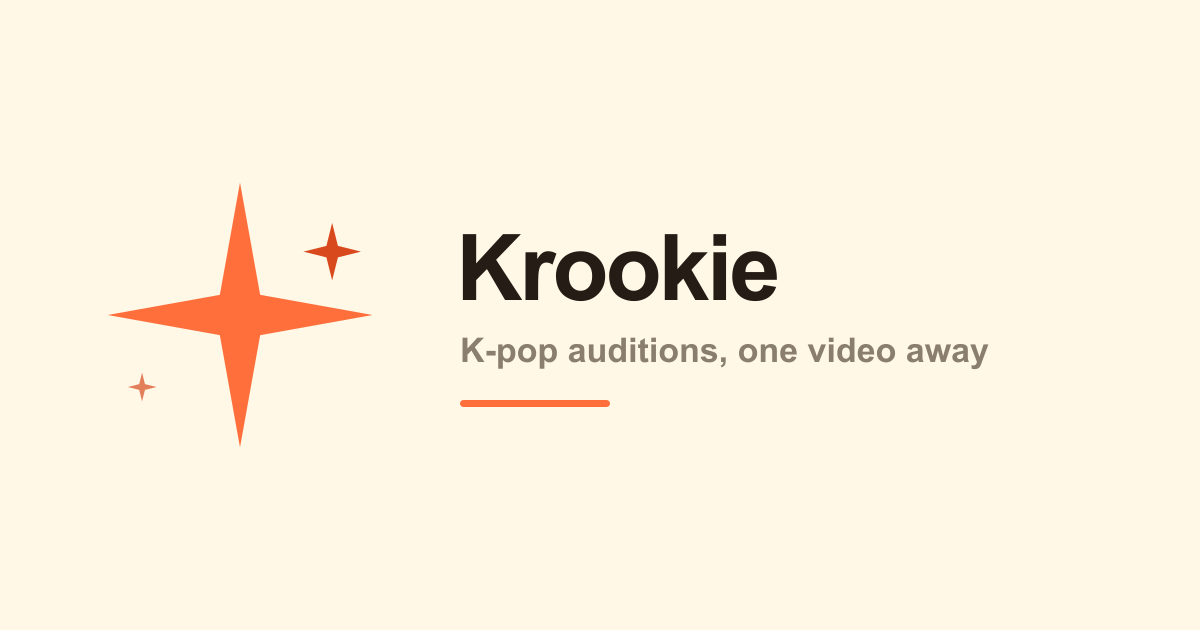
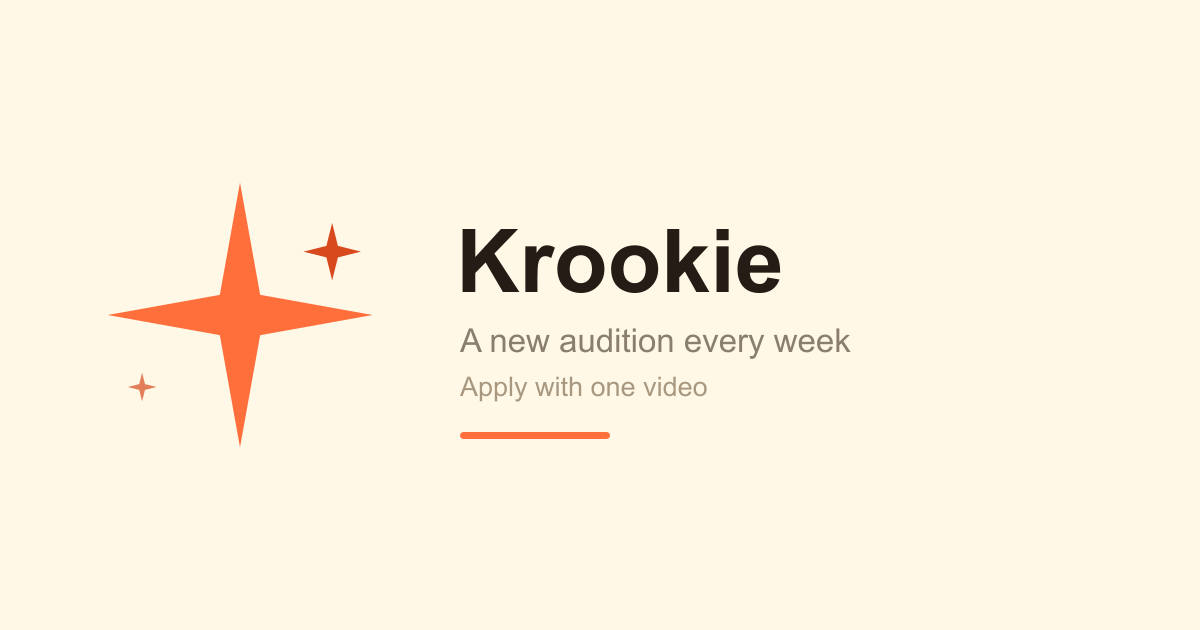
feat: 메인 슬로건을 '매주 새로운 오디션에 지원하세요'로 전환
온라인 오디션 중심으로 방향을 잡았는데 문구는 아직 커버 커뮤니티 시절 그대로였다.
공고 링크를 받아 처음 들어온 사람이 "영상을 올리면 기획사가 찾아온다"를 먼저 읽으면
지금 하려는 일과 어긋난다.

- 랜딩 문구 전면 교체 (10개 언어). 히어로·소개·지원 절차·CTA를 오디션 지원 흐름으로.
- 루트/랜딩 메타데이터, 공용 tagline, 온보딩 첫 화면 교체.
- og-image 문구를 'A new audition every week / Apply with one video'로 재생성.

SNS(커버 업로드·탐색·채팅)는 그대로 둔다. 기능을 지우면 심사 중인 앱과 스토어
설명이 어긋나므로, 이번에는 문구만 바꾸고 커버는 부가 경로로 남겨 서술했다.

Changed region(s): [[0.37, 0.5127, 0.8325, 0.7238], [0.37, 0.3619, 0.6475, 0.4825]]

diff --git a/app/LandingClient.tsx b/app/LandingClient.tsx
@@ -18,154 +18,154 @@ type TxShape = {
 
 const t: Record<Lang, TxShape> = {
   ko: {
-    tagline: '기획사가 직접 발굴하는 오디션 플랫폼',
-    hero: '당신의 재능\n기획사에게 직접',
-    heroSub: '영상 하나로 전세계 기획사 담당자에게 노출됩니다.\nKrookie는 오디션의 새로운 방식입니다.',
+    tagline: '매주 새로운 오디션에 지원하세요',
+    hero: '매주 새로운 오디션\n영상 하나로 지원',
+    heroSub: '기획사가 직접 여는 온라인 오디션.\n갖고 있는 영상으로 지원하고 결과는 앱에서 받아보세요.',
     ctaTalent: '지망생으로 시작하기', ctaAgency: '기획사 문의', login: '로그인',
     forTalent: '지망생', forAgency: '기획사',
-    talentTitle: '재능을 보여줄 무대가 생겼어요',
-    talentPoints: ['영상 업로드 한 번으로 전세계 기획사에 노출', '기획사가 먼저 연락해요', '오디션 공고를 한 곳에서 확인', '관심 표시와 채팅으로 바로 소통'],
+    talentTitle: '오디션을 찾아다니지 않아도 돼요',
+    talentPoints: ['매주 새로운 기획사 오디션이 열려요', '갖고 있는 영상으로 바로 지원 — 새로 찍지 않아도 돼요', '결과는 앱으로 알려드려요', '평소엔 커버 영상을 올려두면 기획사가 먼저 찾아와요'],
     agencyTitle: '검증된 인재를 더 빠르게',
-    agencyPoints: ['전세계 지망생 영상을 한 곳에서 탐색', '원하는 조건으로 필터링', '관심 표시로 풀 구성', '채팅으로 바로 연락'],
-    howTitle: '이렇게 작동해요',
-    steps: [{ title: '영상 업로드', desc: '보컬, 댄스, 연기 등 나의 재능을 담은 영상을 올리세요' }, { title: '기획사 탐색', desc: '전국 기획사 담당자들이 영상을 보고 관심 표시를 합니다' }, { title: '직접 연결', desc: '채팅으로 바로 소통하고 오디션 기회를 잡으세요' }],
-    ctaTitle: '지금 바로 시작해보세요', ctaSub: '가입은 무료입니다', ctaStart: '무료로 시작하기',
-    footerDesc: '기획사가 직접 발굴하는 오디션 플랫폼',
+    agencyPoints: ['온라인 오디션을 열고 지원 영상을 한 곳에서', '전세계 지망생 커버 영상 탐색', '원하는 조건으로 필터링', '채팅으로 바로 연락'],
+    howTitle: '이렇게 지원해요',
+    steps: [{ title: '이번 주 오디션 확인', desc: '매주 새로운 기획사 오디션이 올라와요' }, { title: '영상으로 지원', desc: '갖고 있는 영상을 고르거나 새로 찍어서 바로 지원하세요' }, { title: '결과 확인', desc: '기획사가 확인하면 앱으로 알려드려요' }],
+    ctaTitle: '이번 주 오디션에 지원하세요', ctaSub: '가입은 무료입니다', ctaStart: '무료로 시작하기',
+    footerDesc: '매주 새로운 오디션에 지원하세요',
   },
   en: {
-    tagline: 'The audition platform where agencies find you',
-    hero: 'Your talent,\ndirectly to agencies',
-    heroSub: 'Upload one video and get discovered by agencies across Korea.\nKrookie is a new way to audition.',
+    tagline: 'Apply to a new audition every week',
+    hero: 'A new audition\nevery week',
+    heroSub: 'Online auditions held by real agencies.\nApply with a video you already have — results come to the app.',
     ctaTalent: 'Start as a talent', ctaAgency: 'For agencies', login: 'Log in',
     forTalent: 'Talents', forAgency: 'Agencies',
-    talentTitle: 'A stage to show your talent',
-    talentPoints: ['One upload, exposed to agencies nationwide', 'Agencies reach out to you first', 'All audition listings in one place', 'Communicate directly via chat'],
-    agencyTitle: 'Discover talent faster',
-    agencyPoints: ['Browse talent videos from across Korea', 'Filter by category and criteria', 'Build your shortlist with bookmarks', 'Reach out directly via chat'],
-    howTitle: 'How it works',
-    steps: [{ title: 'Upload a video', desc: 'Show your vocal, dance, acting or other talents in a short video' }, { title: 'Get discovered', desc: 'Agency scouts browse videos and bookmark the ones they like' }, { title: 'Connect directly', desc: 'Chat directly with agencies and land your audition opportunity' }],
-    ctaTitle: 'Start today', ctaSub: 'Free to join', ctaStart: 'Get started free',
-    footerDesc: 'The audition platform where agencies find you',
+    talentTitle: 'No more hunting for auditions',
+    talentPoints: ['A new agency audition opens every week', 'Apply with a video you already have — no new filming', 'Results come straight to the app', 'Post covers anytime and let agencies find you'],
+    agencyTitle: 'Find talent faster',
+    agencyPoints: ['Open an online audition and collect every entry in one place', 'Browse cover videos from around the world', 'Filter by what you are looking for', 'Reach out directly via chat'],
+    howTitle: 'How to apply',
+    steps: [{ title: 'Check this week’s audition', desc: 'A new agency audition opens every week' }, { title: 'Apply with a video', desc: 'Pick a video you already have, or film a new one' }, { title: 'Hear back', desc: 'You will be notified in the app once the agency reviews it' }],
+    ctaTitle: 'Apply to this week’s audition', ctaSub: 'Free to join', ctaStart: 'Get started free',
+    footerDesc: 'Apply to a new audition every week',
   },
   ja: {
-    tagline: '芸能事務所が直接スカウトするオーディションプラットフォーム',
-    hero: 'あなたの才能を\n事務所へ直接届ける',
-    heroSub: '動画1本で全国の芸能事務所にアピール。\nKrookieは新しいオーディションのかたちです。',
+    tagline: '毎週新しいオーディションに応募しよう',
+    hero: '毎週新しいオーディション\n動画1本で応募',
+    heroSub: '芸能事務所が直接開催するオンラインオーディション。\n手持ちの動画で応募して、結果はアプリで受け取れます。',
     ctaTalent: 'タレントとして始める', ctaAgency: '事務所の方はこちら', login: 'ログイン',
     forTalent: 'タレント', forAgency: '事務所',
-    talentTitle: '才能を見せる舞台が生まれた',
-    talentPoints: ['動画1本で全国の事務所に露出', '事務所から直接連絡が来る', 'オーディション情報を一括確認', 'チャットで直接コミュニケーション'],
+    talentTitle: 'オーディションを探し回らなくていい',
+    talentPoints: ['毎週新しい事務所オーディションが開催', '手持ちの動画でそのまま応募 — 撮り直し不要', '結果はアプリでお知らせ', '普段はカバー動画を上げておけば事務所から声がかかります'],
     agencyTitle: '優秀な人材をより早く発掘',
-    agencyPoints: ['全国のタレント動画を一覧で閲覧', '条件でフィルタリング', 'お気に入り登録でリスト管理', 'チャットで直接連絡'],
-    howTitle: '使い方',
-    steps: [{ title: '動画をアップロード', desc: 'ボーカル、ダンス、演技など自分の才能を動画で投稿' }, { title: '事務所に発見される', desc: '全国の芸能事務所のスカウトが動画を閲覧し、お気に入り登録' }, { title: '直接つながる', desc: 'チャットで事務所と直接やり取りし、チャンスをつかもう' }],
-    ctaTitle: '今すぐ始めよう', ctaSub: '登録無料', ctaStart: '無料で始める',
-    footerDesc: '芸能事務所が直接スカウトするオーディションプラットフォーム',
+    agencyPoints: ['オンラインオーディションを開催し応募動画を一括管理', '世界中のカバー動画を閲覧', '条件でフィルタリング', 'チャットで直接連絡'],
+    howTitle: '応募の流れ',
+    steps: [{ title: '今週のオーディションを確認', desc: '毎週新しい事務所オーディションが公開されます' }, { title: '動画で応募', desc: '手持ちの動画を選ぶか、新しく撮って応募' }, { title: '結果を確認', desc: '事務所が確認するとアプリでお知らせします' }],
+    ctaTitle: '今週のオーディションに応募', ctaSub: '登録無料', ctaStart: '無料で始める',
+    footerDesc: '毎週新しいオーディションに応募しよう',
   },
   zh: {
-    tagline: '经纪公司直接发掘人才的试镜平台',
-    hero: '你的才华\n直达经纪公司',
-    heroSub: '上传一个视频，让全国经纪公司发现你。\nKrookie是全新的试镜方式。',
+    tagline: '每周都有新试镜等你报名',
+    hero: '每周都有新试镜\n一个视频即可报名',
+    heroSub: '经纪公司亲自举办的线上试镜。\n用你现有的视频报名，结果直接在应用内查收。',
     ctaTalent: '以艺人身份开始', ctaAgency: '经纪公司咨询', login: '登录',
     forTalent: '艺人', forAgency: '经纪公司',
-    talentTitle: '展示才华的舞台',
-    talentPoints: ['上传一次视频，曝光给全国经纪公司', '经纪公司主动联系你', '在一处查看所有试镜公告', '通过聊天直接沟通'],
+    talentTitle: '不用再到处找试镜',
+    talentPoints: ['每周都有新的经纪公司试镜', '用现有视频直接报名 — 无需重新拍摄', '结果通过应用通知你', '平时上传翻唱视频，让经纪公司主动找到你'],
     agencyTitle: '更快发掘优秀人才',
-    agencyPoints: ['在一处浏览全国艺人视频', '按条件筛选', '通过收藏建立人才库', '直接通过聊天联系'],
-    howTitle: '使用方式',
-    steps: [{ title: '上传视频', desc: '上传展示你的声乐、舞蹈、表演等才华的视频' }, { title: '被经纪公司发现', desc: '全国经纪公司的星探浏览视频并收藏感兴趣的人才' }, { title: '直接建立联系', desc: '通过聊天直接与经纪公司沟通，把握试镜机会' }],
-    ctaTitle: '立即开始', ctaSub: '注册免费', ctaStart: '免费开始',
-    footerDesc: '经纪公司直接发掘人才的试镜平台',
+    agencyPoints: ['开设线上试镜，在一处收齐所有报名视频', '浏览全球艺人的翻唱视频', '按条件筛选', '通过聊天直接联系'],
+    howTitle: '报名方式',
+    steps: [{ title: '查看本周试镜', desc: '每周都有新的经纪公司试镜发布' }, { title: '用视频报名', desc: '选择现有视频，或重新拍一个' }, { title: '查看结果', desc: '经纪公司确认后会通过应用通知你' }],
+    ctaTitle: '报名本周试镜', ctaSub: '注册免费', ctaStart: '免费开始',
+    footerDesc: '每周都有新试镜等你报名',
   },
   'zh-TW': {
-    tagline: '經紀公司直接發掘人才的試鏡平台',
-    hero: '你的才華\n直達經紀公司',
-    heroSub: '上傳一個影片，讓全國經紀公司發現你。\nKrookie是全新的試鏡方式。',
+    tagline: '每週都有新試鏡等你報名',
+    hero: '每週都有新試鏡\n一支影片即可報名',
+    heroSub: '經紀公司親自舉辦的線上試鏡。\n用你現有的影片報名，結果直接在應用程式內查收。',
     ctaTalent: '以藝人身份開始', ctaAgency: '經紀公司諮詢', login: '登入',
     forTalent: '藝人', forAgency: '經紀公司',
-    talentTitle: '展示才華的舞台',
-    talentPoints: ['上傳一次影片，曝光給全國經紀公司', '經紀公司主動聯繫你', '在一處查看所有試鏡公告', '透過聊天直接溝通'],
+    talentTitle: '不用再到處找試鏡',
+    talentPoints: ['每週都有新的經紀公司試鏡', '用現有影片直接報名 — 無需重新拍攝', '結果透過應用程式通知你', '平時上傳翻唱影片，讓經紀公司主動找到你'],
     agencyTitle: '更快發掘優秀人才',
-    agencyPoints: ['在一處瀏覽全國藝人影片', '按條件篩選', '透過收藏建立人才庫', '直接透過聊天聯繫'],
-    howTitle: '使用方式',
-    steps: [{ title: '上傳影片', desc: '上傳展示你的聲樂、舞蹈、表演等才華的影片' }, { title: '被經紀公司發現', desc: '全國經紀公司的星探瀏覽影片並收藏感興趣的人才' }, { title: '直接建立聯繫', desc: '透過聊天直接與經紀公司溝通，把握試鏡機會' }],
-    ctaTitle: '立即開始', ctaSub: '註冊免費', ctaStart: '免費開始',
-    footerDesc: '經紀公司直接發掘人才的試鏡平台',
+    agencyPoints: ['開設線上試鏡，在一處收齊所有報名影片', '瀏覽全球藝人的翻唱影片', '按條件篩選', '透過聊天直接聯繫'],
+    howTitle: '報名方式',
+    steps: [{ title: '查看本週試鏡', desc: '每週都有新的經紀公司試鏡發布' }, { title: '用影片報名', desc: '選擇現有影片，或重新拍一支' }, { title: '查看結果', desc: '經紀公司確認後會透過應用程式通知你' }],
+    ctaTitle: '報名本週試鏡', ctaSub: '註冊免費', ctaStart: '免費開始',
+    footerDesc: '每週都有新試鏡等你報名',
   },
   th: {
-    tagline: 'แพลตฟอร์มออดิชันที่ค่ายเพลงค้นหาคุณเอง',
-    hero: 'พรสวรรค์ของคุณ\nถึงมือค่ายเพลงโดยตรง',
-    heroSub: 'อัปโหลดวิดีโอเดียว แล้วให้ค่ายเพลงทั่วประเทศค้นพบคุณ\nKrookie คือวิธีออดิชันแบบใหม่',
-    ctaTalent: 'เริ่มต้นในฐานะศิลปิน', ctaAgency: 'สำหรับค่ายเพลง', login: 'เข้าสู่ระบบ',
-    forTalent: 'ศิลปิน', forAgency: 'ค่ายเพลง',
-    talentTitle: 'เวทีแสดงพรสวรรค์ของคุณ',
-    talentPoints: ['อัปโหลดครั้งเดียว เข้าถึงค่ายเพลงทั่วประเทศ', 'ค่ายเพลงติดต่อคุณก่อน', 'ดูประกาศออดิชันทุกที่ในที่เดียว', 'สื่อสารโดยตรงผ่านแชท'],
-    agencyTitle: 'ค้นหาพรสวรรค์ได้เร็วขึ้น',
-    agencyPoints: ['เรียกดูวิดีโอของศิลปินทั่วประเทศ', 'กรองตามเงื่อนไขที่ต้องการ', 'สร้างรายชื่อด้วยการบุ๊กมาร์ก', 'ติดต่อโดยตรงผ่านแชท'],
-    howTitle: 'วิธีการใช้งาน',
-    steps: [{ title: 'อัปโหลดวิดีโอ', desc: 'แสดงความสามารถด้านร้อง เต้น แสดง หรืออื่นๆ ในวิดีโอสั้น' }, { title: 'ถูกค้นพบ', desc: 'ผู้สรรหาจากค่ายเพลงเรียกดูวิดีโอและบุ๊กมาร์กที่สนใจ' }, { title: 'เชื่อมต่อโดยตรง', desc: 'แชทกับค่ายเพลงโดยตรงและคว้าโอกาสออดิชัน' }],
-    ctaTitle: 'เริ่มต้นวันนี้เลย', ctaSub: 'สมัครฟรี', ctaStart: 'เริ่มต้นฟรี',
-    footerDesc: 'แพลตฟอร์มออดิชันที่ค่ายเพลงค้นหาคุณเอง',
+    tagline: 'สมัครออดิชันใหม่ได้ทุกสัปดาห์',
+    hero: 'ออดิชันใหม่ทุกสัปดาห์\nสมัครด้วยวิดีโอเดียว',
+    heroSub: 'ออดิชันออนไลน์ที่ค่ายเพลงจัดขึ้นเอง\nสมัครด้วยวิดีโอที่คุณมีอยู่แล้ว และรับผลผ่านแอป',
+    ctaTalent: 'เริ่มต้นในฐานะนักออดิชัน', ctaAgency: 'สำหรับค่ายเพลง', login: 'เข้าสู่ระบบ',
+    forTalent: 'นักออดิชัน', forAgency: 'ค่ายเพลง',
+    talentTitle: 'ไม่ต้องตามหาออดิชันอีกต่อไป',
+    talentPoints: ['มีออดิชันจากค่ายใหม่ทุกสัปดาห์', 'สมัครด้วยวิดีโอที่มีอยู่ — ไม่ต้องถ่ายใหม่', 'รับผลผ่านแอปโดยตรง', 'อัปโหลดวิดีโอคัฟเวอร์ไว้ แล้วให้ค่ายมาหาคุณเอง'],
+    agencyTitle: 'ค้นหาผู้มีความสามารถได้เร็วขึ้น',
+    agencyPoints: ['เปิดออดิชันออนไลน์และรวบรวมใบสมัครในที่เดียว', 'ดูวิดีโอคัฟเวอร์จากทั่วโลก', 'กรองตามเงื่อนไขที่ต้องการ', 'ติดต่อโดยตรงผ่านแชท'],
+    howTitle: 'วิธีสมัคร',
+    steps: [{ title: 'ดูออดิชันประจำสัปดาห์', desc: 'มีออดิชันจากค่ายใหม่เปิดทุกสัปดาห์' }, { title: 'สมัครด้วยวิดีโอ', desc: 'เลือกวิดีโอที่คุณมีอยู่ หรือถ่ายใหม่' }, { title: 'ดูผลลัพธ์', desc: 'เมื่อค่ายตรวจสอบแล้ว เราจะแจ้งให้ทราบผ่านแอป' }],
+    ctaTitle: 'สมัครออดิชันสัปดาห์นี้', ctaSub: 'สมัครฟรี', ctaStart: 'เริ่มต้นฟรี',
+    footerDesc: 'สมัครออดิชันใหม่ได้ทุกสัปดาห์',
   },
   id: {
-    tagline: 'Platform audisi tempat agensi menemukan kamu',
-    hero: 'Bakatmu,\nlangsung ke agensi',
-    heroSub: 'Upload satu video dan ditemukan oleh agensi di seluruh dunia.\nKrookie adalah cara baru untuk audisi.',
-    ctaTalent: 'Mulai sebagai bakat', ctaAgency: 'Untuk agensi', login: 'Masuk',
-    forTalent: 'Bakat', forAgency: 'Agensi',
-    talentTitle: 'Panggung untuk bakatmu',
-    talentPoints: ['Satu upload, terekspos ke semua agensi', 'Agensi yang menghubungimu duluan', 'Semua lowongan audisi di satu tempat', 'Komunikasi langsung lewat chat'],
-    agencyTitle: 'Temukan bakat lebih cepat',
-    agencyPoints: ['Jelajahi video bakat dari seluruh dunia', 'Filter sesuai kriteria', 'Buat daftar favorit dengan bookmark', 'Hubungi langsung lewat chat'],
-    howTitle: 'Cara kerjanya',
-    steps: [{ title: 'Upload video', desc: 'Tunjukkan bakat vokal, tari, akting atau lainnya dalam video singkat' }, { title: 'Ditemukan agensi', desc: 'Scout dari agensi menjelajahi video dan mem-bookmark yang mereka suka' }, { title: 'Terhubung langsung', desc: 'Chat langsung dengan agensi dan raih kesempatan audisi' }],
-    ctaTitle: 'Mulai hari ini', ctaSub: 'Gratis untuk bergabung', ctaStart: 'Mulai gratis',
-    footerDesc: 'Platform audisi tempat agensi menemukan kamu',
+    tagline: 'Ikuti audisi baru setiap minggu',
+    hero: 'Audisi baru\nsetiap minggu',
+    heroSub: 'Audisi online yang digelar langsung oleh agensi.\nDaftar dengan video yang sudah kamu punya, hasilnya masuk ke aplikasi.',
+    ctaTalent: 'Mulai sebagai talenta', ctaAgency: 'Untuk agensi', login: 'Masuk',
+    forTalent: 'Talenta', forAgency: 'Agensi',
+    talentTitle: 'Tak perlu lagi mencari-cari audisi',
+    talentPoints: ['Audisi agensi baru dibuka setiap minggu', 'Daftar dengan video yang sudah ada — tanpa syuting ulang', 'Hasilnya langsung masuk ke aplikasi', 'Unggah video cover kapan saja dan biarkan agensi menemukanmu'],
+    agencyTitle: 'Temukan talenta lebih cepat',
+    agencyPoints: ['Buka audisi online dan kumpulkan semua pendaftaran di satu tempat', 'Jelajahi video cover dari seluruh dunia', 'Saring sesuai kebutuhan', 'Hubungi langsung lewat chat'],
+    howTitle: 'Cara mendaftar',
+    steps: [{ title: 'Cek audisi minggu ini', desc: 'Audisi agensi baru dibuka setiap minggu' }, { title: 'Daftar dengan video', desc: 'Pilih video yang sudah kamu punya, atau rekam yang baru' }, { title: 'Lihat hasilnya', desc: 'Kami beri tahu lewat aplikasi setelah agensi meninjau' }],
+    ctaTitle: 'Ikuti audisi minggu ini', ctaSub: 'Gratis untuk bergabung', ctaStart: 'Mulai gratis',
+    footerDesc: 'Ikuti audisi baru setiap minggu',
   },
   vi: {
-    tagline: 'Nền tảng thử vai nơi các công ty phát hiện bạn',
-    hero: 'Tài năng của bạn,\ntrực tiếp đến công ty',
-    heroSub: 'Tải lên một video và được các công ty phát hiện.\nKrookie là cách thử vai mới.',
-    ctaTalent: 'Bắt đầu với tư cách nghệ sĩ', ctaAgency: 'Dành cho công ty', login: 'Đăng nhập',
-    forTalent: 'Nghệ sĩ', forAgency: 'Công ty',
-    talentTitle: 'Sân khấu để thể hiện tài năng',
-    talentPoints: ['Một lần tải lên, tiếp cận tất cả công ty', 'Công ty chủ động liên hệ bạn', 'Tất cả thông báo thử vai ở một nơi', 'Giao tiếp trực tiếp qua chat'],
-    agencyTitle: 'Tìm kiếm tài năng nhanh hơn',
-    agencyPoints: ['Duyệt video nghệ sĩ từ khắp nơi', 'Lọc theo tiêu chí', 'Tạo danh sách yêu thích', 'Liên hệ trực tiếp qua chat'],
-    howTitle: 'Cách thức hoạt động',
-    steps: [{ title: 'Tải lên video', desc: 'Thể hiện tài năng thanh nhạc, nhảy, diễn xuất trong video ngắn' }, { title: 'Được phát hiện', desc: 'Các nhà tuyển dụng duyệt video và đánh dấu những người họ thích' }, { title: 'Kết nối trực tiếp', desc: 'Chat trực tiếp với công ty và nắm bắt cơ hội thử vai' }],
-    ctaTitle: 'Bắt đầu ngay hôm nay', ctaSub: 'Miễn phí để đăng ký', ctaStart: 'Bắt đầu miễn phí',
-    footerDesc: 'Nền tảng thử vai nơi các công ty phát hiện bạn',
+    tagline: 'Ứng tuyển thử vai mới mỗi tuần',
+    hero: 'Thử vai mới\nmỗi tuần',
+    heroSub: 'Buổi thử vai trực tuyến do chính công ty giải trí tổ chức.\nỨng tuyển bằng video bạn đã có, kết quả gửi thẳng vào ứng dụng.',
+    ctaTalent: 'Bắt đầu với tư cách thí sinh', ctaAgency: 'Dành cho công ty', login: 'Đăng nhập',
+    forTalent: 'Thí sinh', forAgency: 'Công ty',
+    talentTitle: 'Không phải đi tìm buổi thử vai nữa',
+    talentPoints: ['Mỗi tuần có một buổi thử vai mới', 'Ứng tuyển bằng video sẵn có — không cần quay lại', 'Kết quả được báo ngay trên ứng dụng', 'Đăng video cover và để các công ty tự tìm đến bạn'],
+    agencyTitle: 'Tìm nhân tài nhanh hơn',
+    agencyPoints: ['Mở buổi thử vai trực tuyến và gom toàn bộ hồ sơ về một nơi', 'Xem video cover từ khắp thế giới', 'Lọc theo tiêu chí bạn cần', 'Liên hệ trực tiếp qua trò chuyện'],
+    howTitle: 'Cách ứng tuyển',
+    steps: [{ title: 'Xem buổi thử vai tuần này', desc: 'Mỗi tuần có một buổi thử vai mới được đăng' }, { title: 'Ứng tuyển bằng video', desc: 'Chọn video bạn đã có, hoặc quay video mới' }, { title: 'Nhận kết quả', desc: 'Chúng tôi sẽ báo trên ứng dụng khi công ty xem xong' }],
+    ctaTitle: 'Ứng tuyển buổi thử vai tuần này', ctaSub: 'Tham gia miễn phí', ctaStart: 'Bắt đầu miễn phí',
+    footerDesc: 'Ứng tuyển thử vai mới mỗi tuần',
   },
   tl: {
-    tagline: 'Ang platform ng audisyon kung saan hinahanap ka ng mga ahensya',
-    hero: 'Ang iyong talento,\ndiretso sa mga ahensya',
-    heroSub: 'Mag-upload ng isang video at matuklasan ng mga ahensya sa buong mundo.\nAng Krookie ay isang bagong paraan ng audisyon.',
-    ctaTalent: 'Magsimula bilang artista', ctaAgency: 'Para sa mga ahensya', login: 'Mag-login',
-    forTalent: 'Mga Artista', forAgency: 'Mga Ahensya',
-    talentTitle: 'Isang entablado para ipakita ang iyong talento',
-    talentPoints: ['Isang upload, nalantad sa lahat ng ahensya', 'Ang mga ahensya ang makikipag-ugnayan muna', 'Lahat ng audisyon sa isang lugar', 'Direktang komunikasyon sa pamamagitan ng chat'],
-    agencyTitle: 'Mas mabilis na matuklasan ang talento',
-    agencyPoints: ['I-browse ang mga video ng artista', 'I-filter ayon sa pamantayan', 'Gumawa ng shortlist gamit ang bookmark', 'Makipag-ugnayan nang direkta sa chat'],
-    howTitle: 'Paano ito gumagana',
-    steps: [{ title: 'Mag-upload ng video', desc: 'Ipakita ang iyong talento sa pagkanta, sayaw, o pag-arte' }, { title: 'Matuklasan', desc: 'Ang mga scout ng ahensya ay nagba-browse at nagbu-bookmark ng kanilang nagugustuhan' }, { title: 'Direktang kumonekta', desc: 'Chat nang direkta sa mga ahensya at makuha ang pagkakataon sa audisyon' }],
-    ctaTitle: 'Magsimula ngayon', ctaSub: 'Libre ang pagsali', ctaStart: 'Magsimulang libre',
-    footerDesc: 'Ang platform ng audisyon kung saan hinahanap ka ng mga ahensya',
+    tagline: 'Mag-apply sa bagong audisyon kada linggo',
+    hero: 'Bagong audisyon\nkada linggo',
+    heroSub: 'Online na audisyon na mismong binubuksan ng mga ahensya.\nMag-apply gamit ang video na meron ka na — dadating ang resulta sa app.',
+    ctaTalent: 'Magsimula bilang talento', ctaAgency: 'Para sa mga ahensya', login: 'Mag-log in',
+    forTalent: 'Talento', forAgency: 'Ahensya',
+    talentTitle: 'Hindi na kailangang maghanap ng audisyon',
+    talentPoints: ['May bagong audisyon ng ahensya kada linggo', 'Mag-apply gamit ang video na meron ka na — hindi na kailangang mag-shoot ulit', 'Dadating ang resulta mismo sa app', 'Mag-post ng cover kahit kailan at hayaang mahanap ka ng mga ahensya'],
+    agencyTitle: 'Mas mabilis na makahanap ng talento',
+    agencyPoints: ['Magbukas ng online audisyon at tipunin ang lahat ng entry sa isang lugar', 'Mag-browse ng cover videos mula sa buong mundo', 'I-filter ayon sa hinahanap mo', 'Direktang makipag-ugnayan sa chat'],
+    howTitle: 'Paano mag-apply',
+    steps: [{ title: 'Tingnan ang audisyon ngayong linggo', desc: 'May bagong audisyon ng ahensya kada linggo' }, { title: 'Mag-apply gamit ang video', desc: 'Pumili ng video na meron ka na, o kumuha ng bago' }, { title: 'Alamin ang resulta', desc: 'Aabisuhan ka namin sa app kapag natingnan na ng ahensya' }],
+    ctaTitle: 'Mag-apply sa audisyon ngayong linggo', ctaSub: 'Libre ang pagsali', ctaStart: 'Magsimula nang libre',
+    footerDesc: 'Mag-apply sa bagong audisyon kada linggo',
   },
   es: {
-    tagline: 'La plataforma de audiciones donde las agencias te encuentran',
-    hero: 'Tu talento,\ndirectamente a las agencias',
-    heroSub: 'Sube un video y deja que las agencias de todo el mundo te descubran.\nKrookie es una nueva forma de hacer audiciones.',
+    tagline: 'Postúlate a una nueva audición cada semana',
+    hero: 'Una nueva audición\ncada semana',
+    heroSub: 'Audiciones en línea organizadas por las propias agencias.\nPostúlate con un video que ya tienes y recibe el resultado en la app.',
     ctaTalent: 'Empezar como talento', ctaAgency: 'Para agencias', login: 'Iniciar sesión',
     forTalent: 'Artistas', forAgency: 'Agencias',
-    talentTitle: 'Un escenario para mostrar tu talento',
-    talentPoints: ['Una subida, expuesto a todas las agencias', 'Las agencias te contactan primero', 'Todas las audiciones en un lugar', 'Comunicación directa por chat'],
+    talentTitle: 'Ya no tienes que buscar audiciones',
+    talentPoints: ['Cada semana se abre una nueva audición de agencia', 'Postúlate con un video que ya tienes — sin grabar de nuevo', 'El resultado te llega a la app', 'Sube covers cuando quieras y deja que las agencias te encuentren'],
     agencyTitle: 'Descubre talento más rápido',
-    agencyPoints: ['Explora videos de talentos de todo el mundo', 'Filtra por criterios', 'Crea tu lista con marcadores', 'Contáctate directamente por chat'],
-    howTitle: 'Cómo funciona',
-    steps: [{ title: 'Sube un video', desc: 'Muestra tu talento vocal, de baile, actuación u otros en un video corto' }, { title: 'Sé descubierto', desc: 'Los scouts de las agencias exploran videos y marcan los que les gustan' }, { title: 'Conéctate directamente', desc: 'Chatea directamente con las agencias y consigue tu oportunidad de audición' }],
-    ctaTitle: 'Empieza hoy', ctaSub: 'Gratis para unirse', ctaStart: 'Empezar gratis',
-    footerDesc: 'La plataforma de audiciones donde las agencias te encuentran',
+    agencyPoints: ['Abre una audición en línea y reúne todas las postulaciones en un lugar', 'Explora videos de covers de todo el mundo', 'Filtra según lo que buscas', 'Contáctate directamente por chat'],
+    howTitle: 'Cómo postularse',
+    steps: [{ title: 'Mira la audición de esta semana', desc: 'Cada semana se publica una nueva audición de agencia' }, { title: 'Postúlate con un video', desc: 'Elige un video que ya tienes o graba uno nuevo' }, { title: 'Recibe el resultado', desc: 'Te avisamos en la app cuando la agencia lo revise' }],
+    ctaTitle: 'Postúlate a la audición de esta semana', ctaSub: 'Gratis para unirse', ctaStart: 'Empezar gratis',
+    footerDesc: 'Postúlate a una nueva audición cada semana',
   },
 }
 

diff --git a/app/onboarding/page.tsx b/app/onboarding/page.tsx
@@ -167,12 +167,12 @@ function OnboardingContent() {
             </div>
 
             <h1 style={{ fontSize: 26, fontWeight: 900, color: '#241C15', marginBottom: 12, textAlign: 'center', wordBreak: 'keep-all' }}>
-              {isAgency ? '숨은 인재를 가장 먼저 발견하세요' : <>K-pop 커버로 시작하는<br />데뷔의 문</>}
+              {isAgency ? '숨은 인재를 가장 먼저 발견하세요' : <>매주 새로운 오디션에<br />지원하세요</>}
             </h1>
             <p style={{ fontSize: 15, color: '#8A7F6E', textAlign: 'center', lineHeight: 1.6, marginBottom: 32, wordBreak: 'keep-all' }}>
               {isAgency
                 ? <>전세계 K-pop 팬들의 커버 영상에서<br />다음 스타를 찾아보세요</>
-                : <>커버 영상을 올리면 전세계 기획사가<br />직접 찾아와요</>}
+                : <>기획사가 직접 여는 온라인 오디션.<br />갖고 있는 영상으로 지원하세요</>}
             </p>
 
             <div style={{ width: '100%', display: 'flex', flexDirection: 'column', gap: 10, marginBottom: 32 }}>
@@ -183,9 +183,9 @@ function OnboardingContent() {
                     { Icon: MessageCircle, text: '채팅으로 소통 — 마음에 든 지망생과 바로 연락' },
                   ]
                 : [
-                    { Icon: Video, text: '커버 영상 올리기 — 원하는 곡으로 자유롭게' },
-                    { Icon: Star, text: '기획사가 발견해요 — 관심 있으면 북마크·오디션 제안' },
-                    { Icon: MessageCircle, text: '채팅으로 소통 — 오디션까지 이어져요' },
+                    { Icon: ClipboardList, text: '매주 새 오디션 — 기획사가 직접 열어요' },
+                    { Icon: Video, text: '영상으로 지원 — 갖고 있는 영상이면 충분해요' },
+                    { Icon: Star, text: '결과는 앱으로 — 커버 영상을 올려두면 기획사가 먼저 찾아오기도 해요' },
                   ]
               ).map(item => (
                 <div key={item.text} style={{ display: 'flex', alignItems: 'center', gap: 12, padding: '14px 16px', background: '#FFFFFF', borderRadius: 14, border: '1px solid rgba(36,28,21,0.09)' }}>

diff --git a/lib/i18n/translations.ts b/lib/i18n/translations.ts
@@ -39,7 +39,7 @@ const t = {
 
   // ── Auth ─────────────────────────────────────────────
   auth: {
-    tagline:         ['기획사가 직접 발굴하는 오디션 플랫폼', 'The audition platform where agencies find you', '芸能事務所が直接スカウトするオーディションプラットフォーム', '经纪公司直接发掘人才的试镜平台', '經紀公司直接發掘人才的試鏡平台', 'แพลตฟอร์มออดิชันที่ค่ายเพลงค้นหาคุณเอง', 'Platform audisi tempat agensi menemukan kamu', 'Nền tảng thử vai nơi các công ty phát hiện bạn', 'Ang platform ng audisyon kung saan hinahanap ka ng mga ahensya', 'La plataforma de audiciones donde las agencias te encuentran'],
+    tagline:         ['매주 새로운 오디션에 지원하세요', 'Apply to a new audition every week', '毎週新しいオーディションに応募しよう', '每周都有新试镜等你报名', '每週都有新試鏡等你報名', 'สมัครออดิชันใหม่ได้ทุกสัปดาห์', 'Ikuti audisi baru setiap minggu', 'Ứng tuyển thử vai mới mỗi tuần', 'Mag-apply sa bagong audisyon kada linggo', 'Postúlate a una nueva audición cada semana'],
     loginTitle:      ['로그인', 'Log in', 'ログイン', '登录', '登入', 'เข้าสู่ระบบ', 'Masuk', 'Đăng nhập', 'Mag-login', 'Iniciar sesión'],
     loginGoogle:     ['Google로 로그인', 'Continue with Google', 'Googleでログイン', '使用Google登录', '使用Google登入', 'เข้าสู่ระบบด้วย Google', 'Masuk dengan Google', 'Đăng nhập bằng Google', 'Mag-login gamit ang Google', 'Continuar con Google'],
     loginApple:      ['Apple로 로그인', 'Continue with Apple', 'Appleでログイン', '使用Apple登录', '使用Apple登入', 'เข้าสู่ระบบด้วย Apple', 'Masuk dengan Apple', 'Đăng nhập bằng Apple', 'Mag-login gamit ang Apple', 'Continuar con Apple'],

diff --git a/app/layout.tsx b/app/layout.tsx
@@ -15,11 +15,11 @@ const jakarta = Plus_Jakarta_Sans({
 
 export const metadata: Metadata = {
   title: {
-    default: 'Krookie — 기획사가 직접 발굴하는 오디션 플랫폼',
+    default: 'Krookie — 매주 새로운 오디션에 지원하세요',
     template: '%s | Krookie',
   },
-  description: '영상 하나로 전세계 기획사 담당자에게 노출됩니다. K팝 보컬·댄스·연기 오디션의 새로운 방식.',
-  keywords: ['K팝 오디션', '기획사 오디션', '연예인 오디션', '댄스 오디션', '보컬 오디션', 'kpop audition', 'K-pop agency'],
+  description: '기획사가 직접 여는 온라인 오디션. 갖고 있는 영상 하나로 지원하고 결과는 앱에서 받아보세요.',
+  keywords: ['온라인 오디션', 'K팝 오디션', '기획사 오디션', '연예인 오디션', '댄스 오디션', '보컬 오디션', 'kpop audition', 'online audition'],
   authors: [{ name: 'Krookie' }],
   creator: 'Krookie',
   metadataBase: new URL('https://kpick.app'),
@@ -29,14 +29,14 @@ export const metadata: Metadata = {
     alternateLocale: ['en_US', 'ja_JP', 'zh_CN'],
     url: 'https://kpick.app',
     siteName: 'Krookie',
-    title: 'Krookie — 기획사가 직접 발굴하는 오디션 플랫폼',
-    description: '영상 하나로 전세계 기획사 담당자에게 노출됩니다.',
+    title: 'Krookie — 매주 새로운 오디션에 지원하세요',
+    description: '기획사가 직접 여는 온라인 오디션. 영상 하나로 지원하세요.',
     images: [{ url: '/og-image.png', width: 1200, height: 630, alt: 'Krookie' }],
   },
   twitter: {
     card: 'summary_large_image',
-    title: 'Krookie — 기획사가 직접 발굴하는 오디션 플랫폼',
-    description: '영상 하나로 전세계 기획사 담당자에게 노출됩니다.',
+    title: 'Krookie — 매주 새로운 오디션에 지원하세요',
+    description: '기획사가 직접 여는 온라인 오디션. 영상 하나로 지원하세요.',
     images: ['/og-image.png'],
   },
   verification: {

diff --git a/app/page.tsx b/app/page.tsx
@@ -2,11 +2,11 @@ import type { Metadata } from 'next'
 import LandingClient from './LandingClient'
 
 export const metadata: Metadata = {
-  title: 'Krookie — 기획사가 직접 발굴하는 오디션 플랫폼',
-  description: '영상 하나로 전세계 기획사 담당자에게 노출됩니다. K팝 보컬·댄스·연기 오디션의 새로운 방식.',
+  title: 'Krookie — 매주 새로운 오디션에 지원하세요',
+  description: '기획사가 직접 여는 온라인 오디션. 갖고 있는 영상 하나로 지원하고 결과는 앱에서 받아보세요.',
   openGraph: {
-    title: 'Krookie — 기획사가 직접 발굴하는 오디션 플랫폼',
-    description: '영상 하나로 전세계 기획사 담당자에게 노출됩니다.',
+    title: 'Krookie — 매주 새로운 오디션에 지원하세요',
+    description: '기획사가 직접 여는 온라인 오디션. 영상 하나로 지원하세요.',
     url: 'https://kpick.app',
   },
 }
